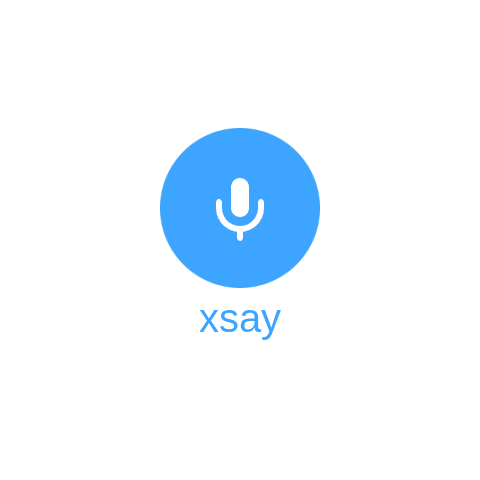
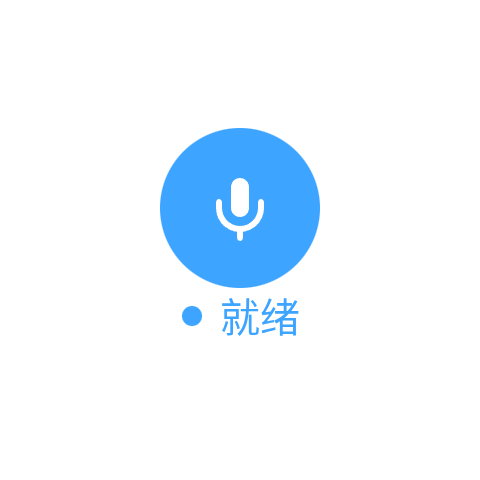
0.1.27: lower idle badge, restore "● 就绪" PNG
- compute_icon_anchor: bottom_margin 140 → 114. 0.1.26's 140 lifted the
  badge too far above the GNOME dock; 88 (pre-0.1.26) was crowding it.
  114 splits the difference.
- assets/idle-badge.png: swap back to the "● 就绪" mockup the user
  preferred (xsay-standby-transparent.png).

Changed region(s): [[0.375, 0.625, 0.625, 0.7188]]

diff --git a/src/overlay.rs b/src/overlay.rs
@@ -118,9 +118,9 @@ fn compute_icon_anchor(monitor: egui::Vec2, corner: &str) -> egui::Pos2 {
     let side_margin = 20.0;
     // Lift the bottom-anchored disk above the GNOME shell / taskbar plus the
     // user's natural focus zone so a Recording pill doesn't crowd the bottom
-    // edge. Tuned by eye against a 1440p panel + dash-to-dock; bump if the
-    // overlay sits too close to the panel for you.
-    let bottom_margin = 140.0;
+    // edge. 114 is roughly the midpoint between the original 88 (too close
+    // to the dock) and the 140 we tried in 0.1.26 (too far up).
+    let bottom_margin = 114.0;
     let top_margin = 20.0;
     let half = OVERLAY_SIZE.x * 0.5;
     match corner {
